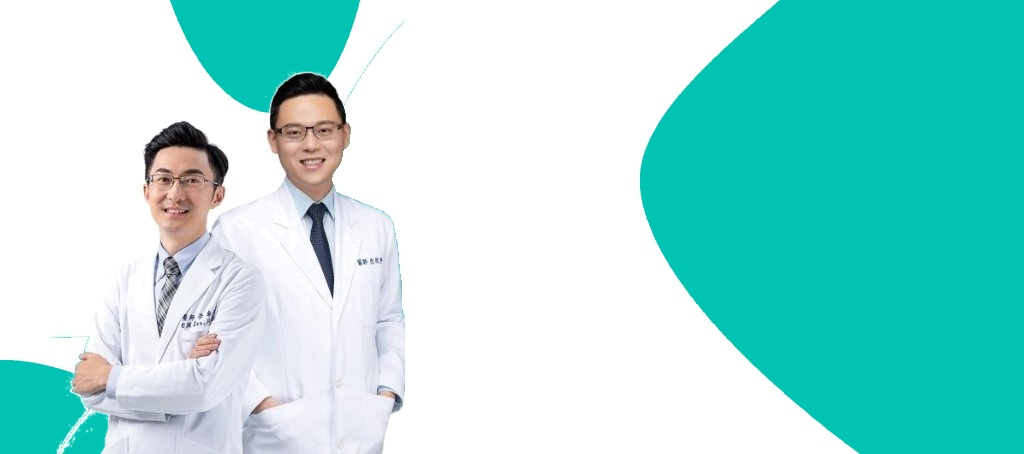
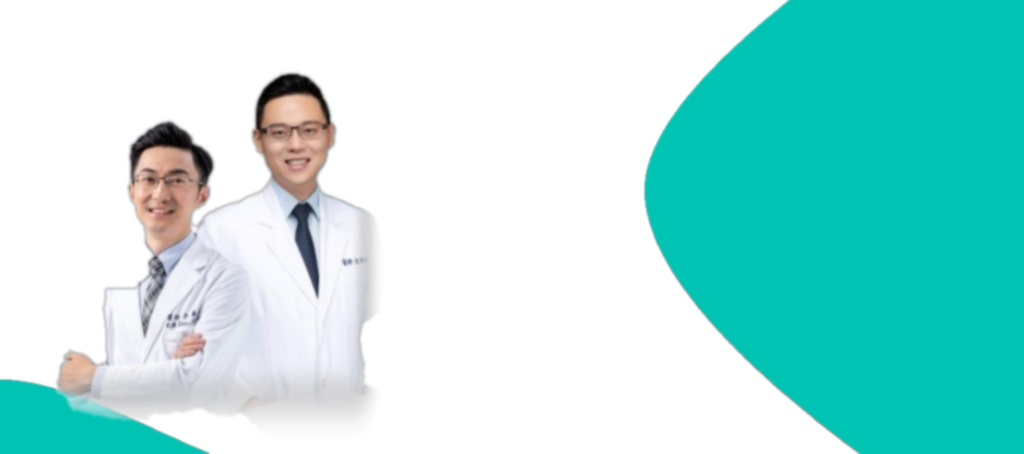
fix(team): remove background image border and apply softened depth-of-field effect

diff --git a/team.html b/team.html
@@ -229,9 +229,9 @@
       
       <!-- Our Team Hero Custom Background Image (opacity 40) -->
       <div class="absolute inset-0 pointer-events-none overflow-hidden z-0">
-        <img src="assets/images/team/our-team-bg.jpg" 
+        <img src="assets/images/team/our-team-bg.png" 
              alt="PhysioCare Team Background" 
-             class="w-full h-full object-cover object-center opacity-40 transition-opacity">
+             class="w-full h-full object-cover object-center opacity-40 dark:opacity-35 transition-opacity">
         <div class="absolute inset-0 bg-gradient-to-r from-[#F0FDF9]/80 via-[#F0FDF9]/40 to-transparent dark:from-[#061217]/85 dark:via-[#061217]/50 dark:to-transparent"></div>
         <div class="absolute inset-0 bg-gradient-to-t from-[#F8FAFC] via-transparent to-transparent dark:from-[#070F14] dark:via-transparent to-transparent"></div>
       </div>
